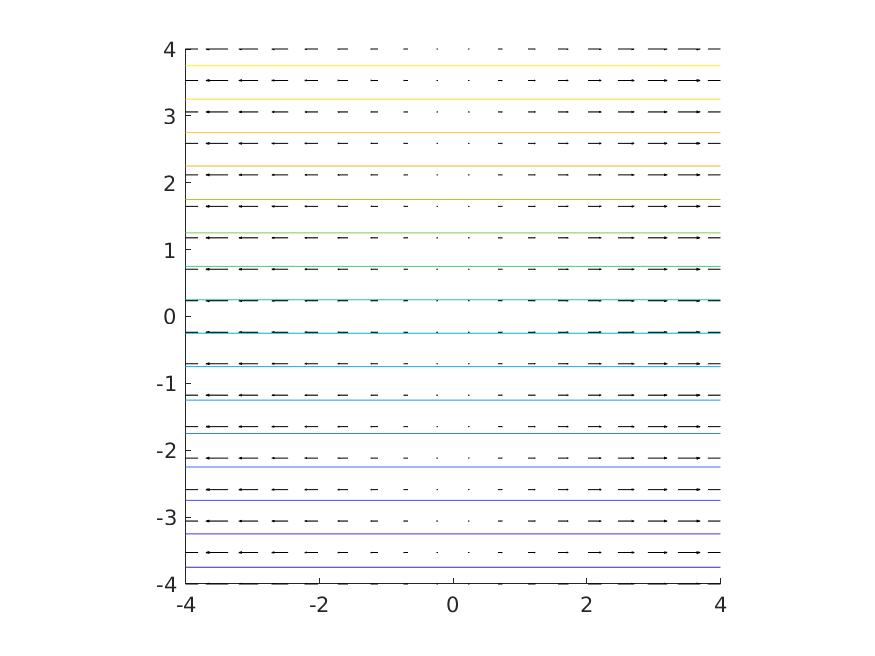
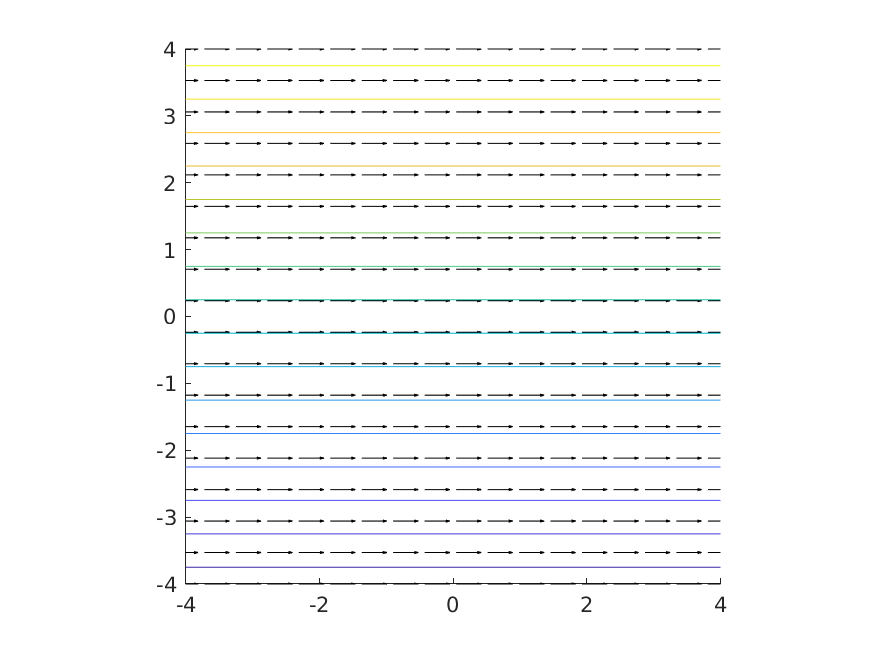
Finish as11 problem 202

diff --git a/as11/hw.tex b/as11/hw.tex
@@ -15,6 +15,8 @@
 \usepackage{commath}
 
 % Math notation macros
+\DeclareMathOperator*{\res}{Res}
+
 \newcommand{\R}{\mathbb{R}}
 \newcommand{\Z}{\mathbb{Z}}
 
@@ -65,8 +67,6 @@ and the global force balance. Be clear about all the signs in your shear
 stress calculation---the cancellation you need is obvious, but the
 understanding is in the proper tracing of the signs. Your presentation
 of the stress terms will be paid special attention.
-
-\newpage
 
 \textbf{Solution}
 
@@ -310,7 +310,7 @@ Let's just try this with a very simple example. Consider the potential
 flow $\Phi(z) = z$. Here we have $\phi = x$ and $\psi = y$. This gives
 us the familiar flow shown in Figure~\ref{fig:mt-1}.
 %
-\begin{figure}[!ht]
+\begin{figure}[ht]
     \includegraphics[width=35em]{mt_ex1_1}
     \centering
     \caption{Flow generated from $\Phi$}
@@ -320,7 +320,7 @@ us the familiar flow shown in Figure~\ref{fig:mt-1}.
 Now let's see what happens when we apply Milne-Thomson, taking $a = 2$. Then we have
 %
 \begin{equation*}
-    \Phi_{mt} = z + \frac{4}{z}
+    \Phi_{mt}(z) = z + \frac{4}{z}
     ,
 \end{equation*}
 %
@@ -332,13 +332,13 @@ and hence
     .
 \end{align*}
 %
-The resulting flow is plotted below in Figure~\ref{fig:mt-2}. In this
-figure, the streamline $\psi = 0$ is plotted below in black, and we can
+The resulting flow is plotted in Figure~\ref{fig:mt-2}. In this
+figure, the streamline $\psi = 0$ is plotted in black, and we can
 see that it aligns perfectly with the circle $|z| = 2$. Note also that
 velocity quivers at $|z| < 1$ where not plotted, due to their large
 magnitude near the origin.
 %
-\begin{figure}[!ht]
+\begin{figure}[ht]
     \includegraphics[width=35em]{mt_ex1_2}
     \centering
     \caption{Flow generated from $\Phi_{mt}$}
@@ -347,5 +347,177 @@ magnitude near the origin.
 
 \textbf{Another example}
 
+Now we'll look at the ``ping-pong ball in a hair dryer'' flow we briefly
+looked at in lecture. For this example, we'll get a bit more involved in
+the analysis than the previous example. Here, Milne-Thomson will
+essentially insert a circle (our ping pong ball) into the hair dryer
+flow $\Phi$ given by
+%
+\begin{equation*}
+    \Phi(z) = z^2
+    .
+\end{equation*}
+%
+Let's again apply Milne-Thomson, taking $a = 1$. This gives us
+%
+\begin{equation*}
+    \Phi_{mt}(z) = z^2 + \frac{1}{z^2}
+    .
+\end{equation*}
+%
+Computing the real and imaginary components of $\Phi_{mt}$ then gives us
+%
+\begin{align*}
+    \phi_{mt} &= \frac{x^2 - y^2}{(x^2 + y^2)^2} + x^2 - y^2, \\
+    \psi_{mt} &= 2 x y - \frac{2 x y}{(x^2 + y^2)^2}
+    .
+\end{align*}
+%
+Plots of the hair dryer flow generated from $\Phi$ and with the embedded
+ping pong ball generated from $\Phi_{mt}$ are shown in
+Figures~\ref{fig:mt-3} and~\ref{fig:mt-4}, respectively.
+%
+\begin{figure}[ht]
+    \includegraphics[width=35em]{mt_ex2_1}
+    \centering
+    \caption{Hair dryer flow generated from $\Phi$}
+    \label{fig:mt-3}
+\end{figure}
+%
+\begin{figure}[ht]
+    \includegraphics[width=35em]{mt_ex2_2}
+    \centering
+    \caption{Ping pong ball in hair dryer flow generated from $\Phi_{mt}$}
+    \label{fig:mt-4}
+\end{figure}
+%
+We can calculate the force on the body using the Blasius integral
+formula. First, we have that
+%
+\begin{equation*}
+    \del{\Phi_{mt}^\prime(z)}^2
+        = \del{2 z - \frac{2}{z^3}}^2
+        = 4 x^2 - \frac{8}{x^2} + \frac{4}{x^6}
+        ,
+\end{equation*}
+%
+and, thus, using the residue theorem we have that
+%
+\begin{equation*}
+    \*F_B \to \del{i \frac{\rho_0}{2} \oint_{\partial B} \del{\Phi_{mt}^\prime(z)}^2 \dif z}^* = 0
+    .
+\end{equation*}
+%
+Hence we would expect that a ping pong ball placed in the centre of the
+hair dryer flow will stay in the center.
+
+What if we offset the ping pong ball so it wasn't exactly in the centre
+of the hair dryer flow? Let's offset the ball (or, equivalently, the
+hair dryer flow) by $0.1$ units horizontally. We can model this by
+generating a new potential $\Phi_{mt2}$ given by
+%
+\begin{equation*}
+    \Phi_{mt2}(z) = (z + 0.1)^2 + \del{\frac{1}{z} + 0.1}^2
+\end{equation*}
+%
+with real and imaginary components given by
+%
+\begin{align*}
+    \phi_{mt2} &= \frac{x^2 - y^2}{(x^2 + y^2)^2} + \frac{0.2 x}{x^2 + y^2} + x^2 + 0.2x - y^2 + 0.02, \\
+    \psi_{mt2} &= - \frac{2 x y}{(x^2 + y^2)^2} - \frac{0.2 y}{x^2 + y^2} + 2 x y + 0.2 y
+    .
+\end{align*}
+%
+This is shown in Figure~\ref{fig:mt-5} (since the offset is small,
+the differences between this plot and Figure~\ref{fig:mt-4} are
+small).
+%
+\begin{figure}[ht]
+    \includegraphics[width=35em]{mt_ex2_3}
+    \centering
+    \caption{Ping pong ball in hair dryer with offset flow generated from $\Phi_{mt2}$}
+    \label{fig:mt-5}
+\end{figure}
+%
+Let's go ahead and compute the Blasius integral formula again. First we'll calculate the integrand
+in the Blasius integral formula:
+%
+\begin{equation*}
+    \del{\Phi^\prime_{mt2}}^2
+        = \del{0.2 - \frac{2}{z^3} - \frac{0.2}{z^2} + 2 z}^2
+        = \frac{4}{z^6} + \frac{0.8}{z^5} + \frac{0.04}{z^4} - \frac{0.08}{z^3} - \frac{8.08}{z^2} - \frac{0.8}{z} + 0.04 + 0.8 z + 4 z^2
+\end{equation*}
+%
+Hence we have that
+%
+\begin{align*}
+    \*F_B
+        &\to \del{i \frac{\rho_0}{2} \oint_{\partial B} \del{\Phi_{mt}^\prime(z)}^2 \dif z}^* \\
+        &= \del{i \frac{\rho_0}{2} 2 \pi i \res_{z = 0} \sbr{\del{\Phi^\prime_{mt2}}^2}}^* \\
+        &= \del{i \frac{\rho_0}{2} 2 \pi i (-0.8)}^* \\
+        &= 0.8 \rho_0 \pi
+    .
+\end{align*}
+%
+So it would appear that the ping bong ball is being pushed out of the
+hair dryer flow with this offset, which does not support the observation
+that the ping pong ball is stable in the centre of the hair dryer flow.
+In fact, if you generalize the horizontal offset to any number $c$, we
+can see that the centre is never stable, in the sense that the force
+will always be directed away from the centre of the hair dryer flow
+(unless the ball is exactly at the centre).
+
+\textbf{Modelling multiple circles}
+
+In our first example we showed how to embed a circle into the potential
+flow $\Psi(z) = z$ to generate the new potential (this time taking $a = 1/2$)
+%
+\begin{equation*}
+    \Phi_{mt}(z) = z + \frac{1}{4 z}
+    .
+\end{equation*}
+%
+However we can introduce \textit{another} circle into this flow by
+offsetting this potential by $1$ and introducing another circle at the
+origin of this new flow. We'll call this new flow $\Psi$ and, with the
+second circle (again with $a = 1/2$) embedded into it, $\Psi_{mt}$. We
+will thus take $\Psi$ to be given by
+%
+\begin{equation*}
+    \Psi(z) = (z - 1) + \frac{1}{4 (z - 1)}
+\end{equation*}
+%
+and hence $\Psi_{mt}$ is given by
+%
+\begin{equation*}
+    \Psi_{mt}(z)
+        = (z - 1) + \frac{1}{4 (z - 1)}
+        + \del{\frac{1}{4z} - 1} + \frac{1}{4 (\frac{1}{4z} - 1)}
+        .
+\end{equation*}
+%
+This potential has real and imaginary components that are long and not
+particularly informative. So I'm just going to use Maple and use those
+results directly in my MATLAB code. The result is shown in
+Figure~\ref{fig:mt-6}.
+%
+\begin{figure}[ht]
+    \includegraphics[width=35em]{mt_ex3_1}
+    \centering
+    \caption{Modelling two circle flow generated from $\Psi_{mt}$}
+    \label{fig:mt-6}
+\end{figure}
+%
+The result is surprising. What is the third singularity (the one that is
+most ``intense'') doing there? How can we interpret it? Why is the $\psi
+= 0$ contour for our original circle seemingly ``reaching over'' to
+``include it'' in its interior?
+
+I don't have the answers to any of these questions. What I can ask is
+whether this is a good model for embedding two circles into a flow. I
+want to say yes, albeit hesitantly, because the flow looks reasonable.
+The hesitation comes from not knowing how to understand the third
+singularity. This is something I would explore in more detail in a
+longer, more comprehensive project.
 
 \end{document}

diff --git a/as11/code/mt_ex3-1.m b/as11/code/mt_ex3-1.m
@@ -1,0 +1,48 @@
+clear;
+close all
+
+% Setup grids
+L = 2.0;
+ds = 2*L/17;
+
+x = -L:ds:+L;
+y = -L:ds:+L;
+
+% Contour grid
+xc = linspace(-L,L,500);
+yc = linspace(-L,L,500);
+[xxc,yyc] = meshgrid(xc,yc);
+
+% Quiver grid
+[xx,yy] = meshgrid(x,y);
+[tt,rr] = cart2pol(xx,yy);
+
+% Psi
+psi = -4.*yyc./((4.*xxc - 4).^2 + 16.*yyc.^2) - yyc./(4.*(xxc.^2 + yyc.^2)) + yyc./(((xxc./(xxc.^2 + yyc.^2) - 4).^2 + yyc.^2./(xxc.^2 + yyc.^2).^2).*(xxc.^2 + yyc.^2)) + yyc;
+
+% Velocities
+uu = 1 - (4.*xx - 4).*(32.*xx - 32)./((4.*xx - 4).^2 + 16.*yy.^2).^2 + 4./((4.*xx - 4).^2 + 16.*yy.^2) - xx.^2./(2.*(xx.^2 + yy.^2).^2) + 1./(4.*(xx.^2 + yy.^2)) - (xx./(xx.^2 + yy.^2) - 4).*(2.*(xx./(xx.^2 + yy.^2) - 4).*(-2.*xx.^2./(xx.^2 + yy.^2).^2 + 1./(xx.^2 + yy.^2)) - 4.*yy.^2.*xx./(xx.^2 + yy.^2).^3)./((xx./(xx.^2 + yy.^2) - 4).^2 + yy.^2./(xx.^2 + yy.^2).^2).^2 + (-2.*xx.^2./(xx.^2 + yy.^2).^2 + 1./(xx.^2 + yy.^2))./((xx./(xx.^2 + yy.^2) - 4).^2 + yy.^2./(xx.^2 + yy.^2).^2);
+vv = -32.*(4.*xx - 4).*yy./((4.*xx - 4).^2 + 16.*yy.^2).^2 - xx.*yy./(2.*(xx.^2 + yy.^2).^2) - (xx./(xx.^2 + yy.^2) - 4).*(-4.*(xx./(xx.^2 + yy.^2) - 4).*xx.*yy./(xx.^2 + yy.^2).^2 - 4.*yy.^3./(xx.^2 + yy.^2).^3 + 2.*yy./(xx.^2 + yy.^2).^2)./((xx./(xx.^2 + yy.^2) - 4).^2 + yy.^2./(xx.^2 + yy.^2).^2).^2 - 2.*xx.*yy./(((xx./(xx.^2 + yy.^2) - 4).^2 + yy.^2./(xx.^2 + yy.^2).^2).*(xx.^2 + yy.^2).^2);
+
+% Start plot
+clf
+hold on
+
+% Quivers - plotting twice makes symmetrically-placed arrows
+rr1 = xx.^2 + yy.^2;
+rr2 = (xx - 1).^2 + yy.^2;
+quiv_condition = rr1>=(1/2) & rr2>=(1/2);
+
+quiver(x,y,uu.*quiv_condition,vv.*quiv_condition,0.3,'k')
+quiver(x,y,-uu.*quiv_condition,-vv.*quiv_condition,0.3,'k.')
+
+% Axes
+axis([-L +L -L +L]);
+axis square;
+
+% Level curves of psi
+contour(xc,yc,psi,[-5.25:0.5:5]);
+contour(xc,yc,psi,[0 0],'Black');
+
+% Save image
+print -dpng ../img/mt_ex3_1.png

diff --git a/as11/code/mt_ex2-3.m b/as11/code/mt_ex2-3.m
@@ -18,19 +18,20 @@ yc = linspace(-L,L,500);
 [tt,rr] = cart2pol(xx,yy);
 
 % Psi
-psi = yyc;
+psi = 2*xxc.*yyc - 2*xxc.*yyc./(xxc.^2+yyc.^2).^2 - 0.2*yyc./(xxc.^2+yyc.^2) + 0.2*yyc;
 
 % Velocities
-uu = ones(size(xx));
-vv = 0*yy;
+rr = xx.^2 + yy.^2;
+uu = (-4*xx.^3+4*xx.*yy.^2)./rr.^3 + (-0.4*xx.^2+2*xx)./rr.^2 + 0.2./rr + 2*xx + 0.2;
+vv = -2*yy.*(xx.^6+3*xx.^4.*yy.^2+0.2*xx.^3+xx.^2.*(3*yy.^4+3)+0.2*xx.*yy.^2+yy.^6-yy.^2)./rr.^3;
 
 % Start plot
 clf
 hold on
 
 % Quivers - plotting twice makes symmetrically-placed arrows
-quiver(x,y, uu, vv ,0.3,'k')
-quiver(x,y,-uu ,-vv ,0.3,'k.')
+quiver(x,y,uu.*(rr>=1),vv.*(rr>=1),0.3,'k')
+quiver(x,y,-uu.*(rr>=1),-vv.*(rr>=1),0.3,'k.')
 
 % Axes
 axis([-L +L -L +L]);
@@ -38,6 +39,7 @@ axis square;
 
 % Level curves of psi
 contour(xc,yc,psi,[-5.25:0.5:5]);
+contour(xc,yc,psi,[0 0],'Black');
 
 % Save image
-print -dpng ../img/mt_ex1_1.png
+print -dpng ../img/mt_ex2_3.png

diff --git a/as11/code/mt_ex2-2.m b/as11/code/mt_ex2-2.m
@@ -18,19 +18,20 @@ yc = linspace(-L,L,500);
 [tt,rr] = cart2pol(xx,yy);
 
 % Psi
-psi = yyc;
+psi = 2*xxc.*yyc - 2*xxc.*yyc./(xxc.^2+yyc.^2).^2;
 
 % Velocities
-uu = ones(size(xx));
-vv = 0*yy;
+rr = xx.^2 + yy.^2;
+uu = 2*xx./rr.^2 - 4*xx.*(xx.^2-yy.^2)./rr.^3 + 2*xx;
+vv = -2*yy./rr.^2 - 4*yy.*(xx.^2-yy.^2)./rr.^3 - 2*yy;
 
 % Start plot
 clf
 hold on
 
 % Quivers - plotting twice makes symmetrically-placed arrows
-quiver(x,y, uu, vv ,0.3,'k')
-quiver(x,y,-uu ,-vv ,0.3,'k.')
+quiver(x,y,uu.*(rr>=1),vv.*(rr>=1),0.3,'k')
+quiver(x,y,-uu.*(rr>=1),-vv.*(rr>=1),0.3,'k.')
 
 % Axes
 axis([-L +L -L +L]);
@@ -38,6 +39,7 @@ axis square;
 
 % Level curves of psi
 contour(xc,yc,psi,[-5.25:0.5:5]);
+contour(xc,yc,psi,[0 0],'Black');
 
 % Save image
-print -dpng ../img/mt_ex1_1.png
+print -dpng ../img/mt_ex2_2.png

diff --git a/as11/code/mt_ex2-1.m b/as11/code/mt_ex2-1.m
@@ -18,11 +18,11 @@ yc = linspace(-L,L,500);
 [tt,rr] = cart2pol(xx,yy);
 
 % Psi
-psi = yyc;
+psi = 2*xxc.*yyc;
 
 % Velocities
-uu = ones(size(xx));
-vv = 0*yy;
+uu = 2*xx;
+vv = -2*yy;
 
 % Start plot
 clf
@@ -40,4 +40,4 @@ axis square;
 contour(xc,yc,psi,[-5.25:0.5:5]);
 
 % Save image
-print -dpng ../img/mt_ex1_1.png
+print -dpng ../img/mt_ex2_1.png
